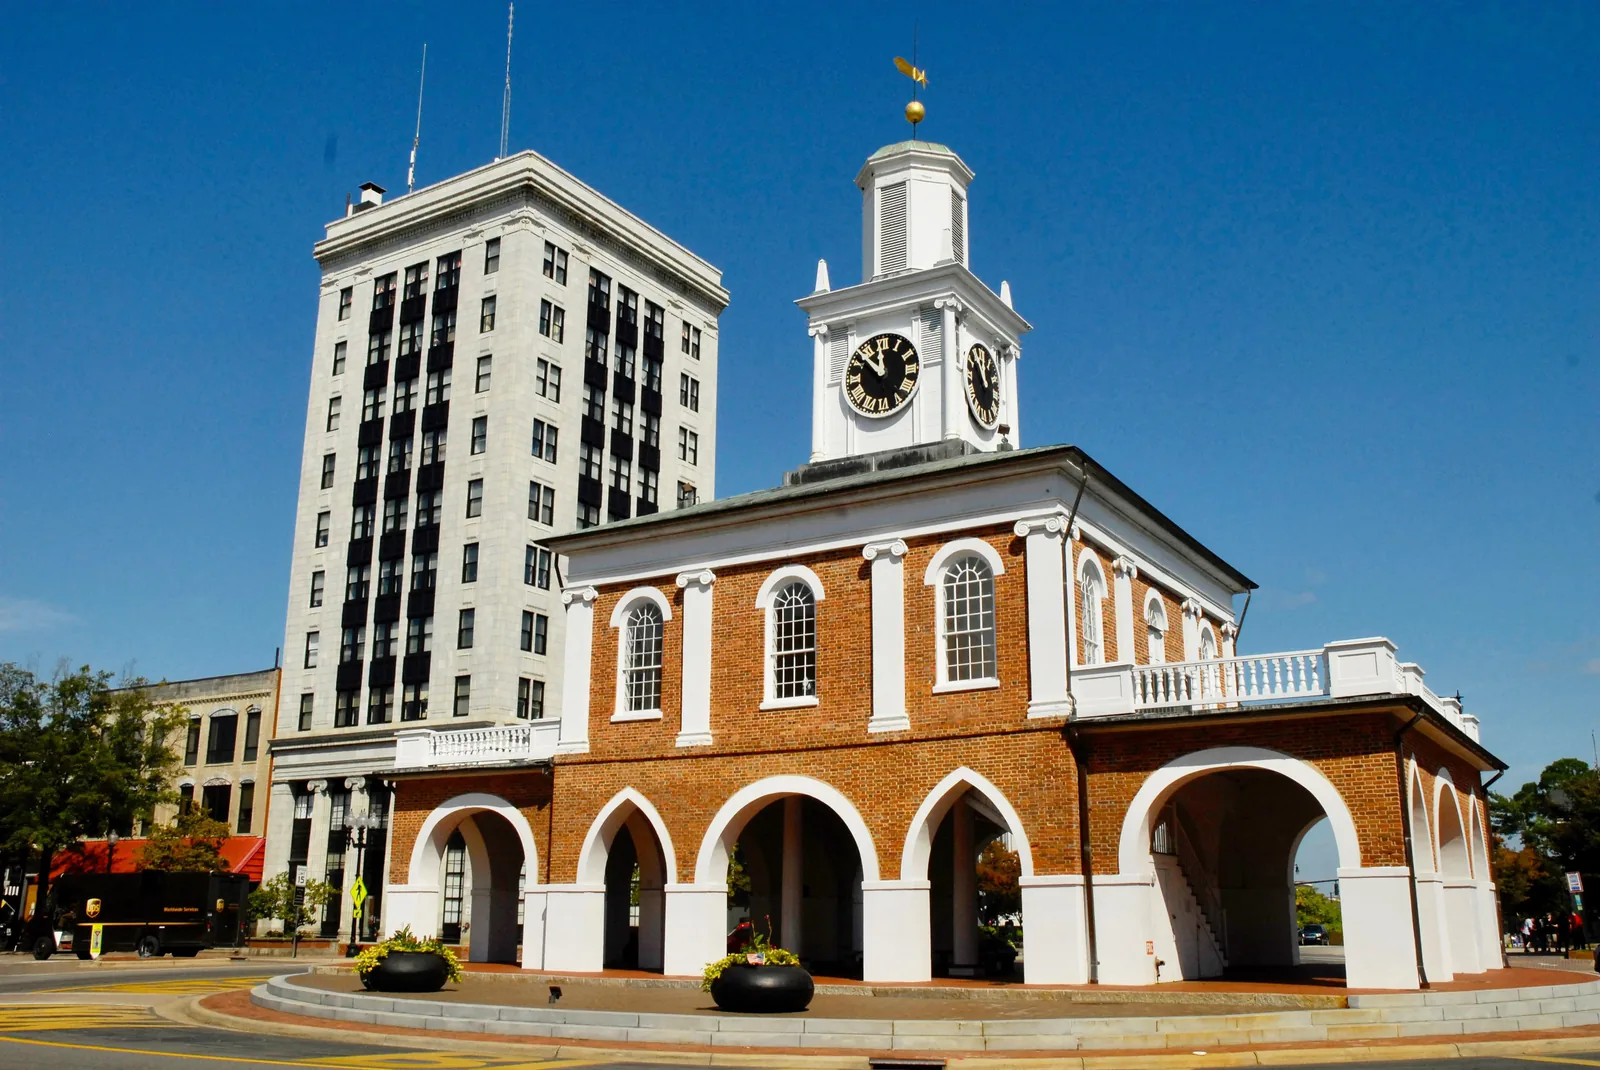
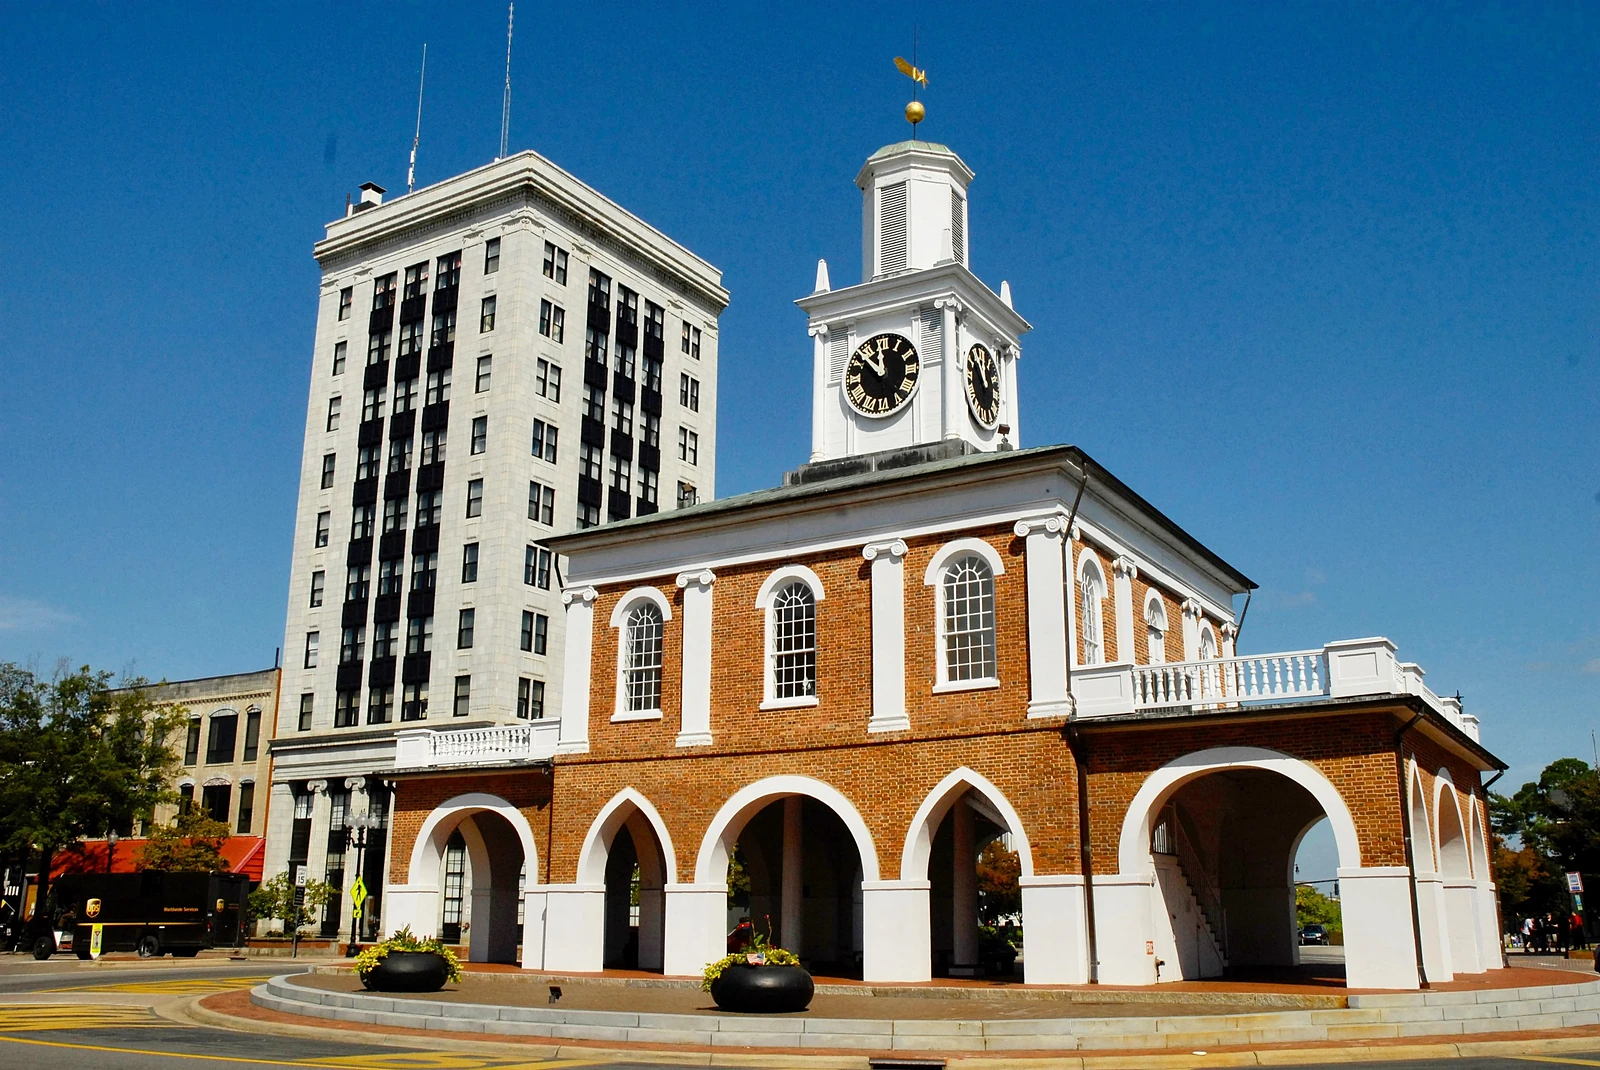
Refresh hero, Jenn portrait, and owner payday section
- Hero: remove green grade and grain, neutral text-side shading,
  sharper re-export with a new 3200w size
- New Jenn Tapia photo: centered 4:5 portrait crops and round avatar,
  shown in a rectangle with an offset brass frame
- Replace the bare "15TH" with an "Owner payday" card on home and owners

diff --git a/css/styles.css b/css/styles.css
@@ -287,30 +287,24 @@ body.nav-open .site-header .brand { color: var(--on-dark); position: relative; z
   overflow: hidden;
 }
 .hero-media { position: absolute; inset: 0; z-index: -2; overflow: hidden; }
-/* Grade the daylight photo toward the brand: cool the sky into deep green, keep the brick warm. */
-.hero-media::after {
-  content: ""; position: absolute; inset: 0;
-  background: linear-gradient(180deg, var(--forest-800) 0%, rgba(16, 48, 42, .55) 45%, rgba(16, 48, 42, 0) 70%);
-  mix-blend-mode: color; opacity: .85;
-}
 .hero-media img {
   width: 100%; height: 108%; object-fit: cover; object-position: 70% 62%;
-  filter: saturate(.78) contrast(1.1) brightness(.95) sepia(.05);
-  transform: scale(1.12); animation: hero-in 2.8s var(--ease) forwards;
-  will-change: transform;
+  /* True color, no grade. */
+  transform: scale(1.08); animation: hero-in 2.4s var(--ease) forwards;
+  backface-visibility: hidden;
 }
 @keyframes hero-in { to { transform: scale(1); } }
 .hero::before {
   content: ""; position: absolute; inset: 0; z-index: -1;
   background:
-    linear-gradient(180deg, rgba(7, 23, 15, .6) 0%, rgba(7, 23, 15, .12) 30%, rgba(7, 23, 15, .2) 62%, rgba(7, 23, 15, .92) 100%),
-    linear-gradient(90deg, rgba(11, 35, 27, .9) 0%, rgba(11, 35, 27, .7) 30%, rgba(11, 35, 27, .15) 58%, rgba(11, 35, 27, 0) 72%),
-    var(--grain);
+    /* Neutral shading only where text sits: header, headline column, and the bottom bar. */
+    linear-gradient(180deg, rgba(0, 0, 0, .45) 0%, rgba(0, 0, 0, 0) 22%, rgba(0, 0, 0, 0) 64%, rgba(0, 0, 0, .7) 100%),
+    linear-gradient(90deg, rgba(0, 0, 0, .78) 0%, rgba(0, 0, 0, .62) 30%, rgba(0, 0, 0, .28) 48%, rgba(0, 0, 0, 0) 62%);
   mix-blend-mode: normal;
 }
 @media (max-width: 860px) {
   .hero-media img { object-position: 58% 40%; }
-  .hero-media::before { content: ""; position: absolute; inset: 0; z-index: 1; background: linear-gradient(180deg, rgba(7, 23, 15, .35), rgba(7, 23, 15, .72) 45%, rgba(7, 23, 15, .8)); }
+  .hero-media::before { content: ""; position: absolute; inset: 0; z-index: 1; background: linear-gradient(180deg, rgba(0, 0, 0, .3), rgba(0, 0, 0, .55) 45%, rgba(0, 0, 0, .7)); }
 }
 .hero-inner { align-self: end; padding-top: 9rem; padding-bottom: clamp(2.5rem, 6vw, 4.5rem); }
 .hero-kicker { display: flex; align-items: center; gap: 1rem; margin-bottom: clamp(1.5rem, 3vw, 2.4rem); }
@@ -389,7 +383,7 @@ body.nav-open .site-header .brand { color: var(--on-dark); position: relative; z
 .manifesto-text .mw.on { opacity: 1; }
 .manifesto-text em { color: var(--forest); }
 .manifesto-sign { display: flex; align-items: center; gap: 1.2rem; margin-top: clamp(2rem, 4vw, 3.2rem); }
-.manifesto-sign img { width: 3.6rem; height: 3.6rem; border-radius: 50%; object-fit: cover; object-position: 50% 18%; }
+.manifesto-sign img { width: 3.6rem; height: 3.6rem; border-radius: 50%; object-fit: cover; }
 .manifesto-sign strong { display: block; font-weight: 500; color: var(--ink); }
 .manifesto-sign span { font-size: .88rem; color: var(--muted); }
 .manifesto-aside { display: grid; align-content: start; gap: 1.4rem; }
@@ -569,8 +563,15 @@ body.nav-open .site-header .brand { color: var(--on-dark); position: relative; z
 /* ---------- Process (sticky) ---------- */
 .process-grid { display: grid; grid-template-columns: minmax(0, 1fr) minmax(0, 1.2fr); gap: clamp(2rem, 7vw, 7rem); }
 .process-sticky { position: sticky; top: 8rem; align-self: start; display: grid; gap: 1.6rem; }
-.process-big { font-family: var(--serif); font-size: clamp(6rem, 4rem + 9vw, 13rem); line-height: .8; color: var(--forest); letter-spacing: -0.04em; }
-.process-big sup { font-size: .22em; letter-spacing: .1em; vertical-align: top; font-family: var(--sans); color: var(--brass); margin-left: .3rem; }
+.payday {
+  display: grid; grid-template-columns: auto 1fr; gap: 1.1rem; align-items: start;
+  padding: 1.4rem 1.5rem; background: var(--bone); border: 1px solid var(--line); border-left: 3px solid var(--brass);
+}
+.payday-ico { width: 2.2rem; height: 2.2rem; color: var(--forest); margin-top: .2rem; }
+.payday-k { font-size: .7rem; letter-spacing: .26em; text-transform: uppercase; font-weight: 500; color: var(--brass); }
+.payday-v { font-family: var(--serif); font-size: clamp(2rem, 1.6rem + 1.4vw, 2.8rem); line-height: 1; color: var(--ink); margin: .35rem 0 .5rem; }
+.payday-v em { color: var(--forest); }
+.payday-note { font-size: .92rem; line-height: 1.5; color: var(--body); max-width: 34ch; }
 .steps { counter-reset: s; }
 .step { position: relative; display: grid; grid-template-columns: 4.5rem 1fr; gap: 1.2rem; padding: 2rem 0 2.4rem; border-top: 1px solid var(--line-strong); }
 .step:last-child { border-bottom: 1px solid var(--line-strong); }
@@ -586,7 +587,7 @@ body.nav-open .site-header .brand { color: var(--on-dark); position: relative; z
 .jenn { background: var(--bone); overflow: hidden; }
 .jenn-grid { display: grid; grid-template-columns: minmax(0, .85fr) minmax(0, 1fr); gap: clamp(2.5rem, 7vw, 7rem); align-items: center; }
 .jenn-portrait { position: relative; max-width: 30rem; }
-.jenn-portrait .arch img { object-position: 50% 20%; }
+.jenn-portrait .arch img { object-position: 50% 50%; }
 .jenn-portrait figcaption { margin-top: 2rem; display: flex; justify-content: space-between; gap: 1rem; font-size: .8rem; letter-spacing: .2em; text-transform: uppercase; color: var(--muted); }
 .jenn-quote { font-family: var(--serif); font-size: clamp(1.8rem, 1.2rem + 2.2vw, 3.2rem); line-height: 1.12; color: var(--ink); margin: 1.5rem 0 1.8rem; text-wrap: balance; }
 .jenn-quote::before { content: "\201C"; display: block; font-size: 2.2em; line-height: .6; color: var(--brass); height: .45em; }
@@ -811,7 +812,7 @@ body.nav-open .site-header .brand { color: var(--on-dark); position: relative; z
 .aside-card .dot.leased { color: var(--muted); }
 .aside-card h3 { font-family: var(--serif); font-size: 1.9rem; line-height: 1.05; }
 .aside-agent { display: flex; align-items: center; gap: 1rem; padding-top: 1.2rem; border-top: 1px solid var(--line); }
-.aside-agent img { width: 3.4rem; height: 3.4rem; border-radius: 50%; object-fit: cover; object-position: 50% 18%; }
+.aside-agent img { width: 3.4rem; height: 3.4rem; border-radius: 50%; object-fit: cover; }
 .aside-agent strong { display: block; font-weight: 500; color: var(--ink); }
 .aside-agent a { font-size: .9rem; color: var(--forest); }
 .verified { display: flex; gap: .8rem; align-items: start; font-size: .85rem; line-height: 1.5; padding: 1rem; background: var(--paper); border: 1px solid var(--line); }
@@ -1217,3 +1218,22 @@ body.nav-open .site-header .brand { color: var(--on-dark); position: relative; z
 /* Never on touch devices or small screens — there's nothing to scan with. */
 @media (hover: none), (pointer: coarse), (max-width: 899px) { .qr { display: none; } }
 @media print { .qr { display: none; } }
+
+/* Outlined hero button stays legible over the bright facade. */
+.hero .btn--outline-light { background: rgba(0, 0, 0, .38); -webkit-backdrop-filter: blur(8px); backdrop-filter: blur(8px); border-color: rgba(255, 255, 255, .55); }
+.hero .btn--outline-light:hover { background: transparent; }
+.hero h1, .hero .lede { text-shadow: 0 2px 24px rgba(0, 0, 0, .35); }
+
+/* Portraits: clean rectangle with an offset brass frame (arches are reserved for places). */
+.portrait { position: relative; isolation: isolate; max-width: 30rem; margin-right: 18px; margin-bottom: 18px; }
+.portrait::before {
+  content: ""; position: absolute; inset: 18px -18px -18px 18px; z-index: -1;
+  border: 1px solid var(--brass); pointer-events: none;
+}
+.portrait-img { aspect-ratio: 4 / 5; overflow: hidden; background: var(--stone); box-shadow: 0 30px 60px -30px rgba(11, 35, 27, .45); }
+.portrait-img img { width: 100%; height: 100%; object-fit: cover; object-position: 50% 50%; }
+.js .portrait-img.reveal-mask.is-in { clip-path: inset(0); }
+@media (max-width: 700px) {
+  .portrait { margin-right: 12px; margin-bottom: 12px; }
+  .portrait::before { inset: 12px -12px -12px 12px; }
+}

diff --git a/index.html b/index.html
@@ -20,7 +20,7 @@
   <link rel="preconnect" href="https://fonts.googleapis.com" />
   <link rel="preconnect" href="https://fonts.gstatic.com" crossorigin />
   <link href="https://fonts.googleapis.com/css2?family=Instrument+Serif:ital@0;1&family=Jost:wght@300;400;500&display=swap" rel="stylesheet" />
-  <link rel="preload" as="image" href="assets/img/market-house-1600.webp" imagesrcset="assets/img/market-house-960.webp 960w, assets/img/market-house-1600.webp 1600w, assets/img/market-house-2560.webp 2560w" imagesizes="100vw" fetchpriority="high" />
+  <link rel="preload" as="image" href="assets/img/market-house-1600.webp" imagesrcset="assets/img/market-house-960.webp 960w, assets/img/market-house-1600.webp 1600w, assets/img/market-house-2560.webp 2560w, assets/img/market-house-3200.webp 3200w" imagesizes="100vw" fetchpriority="high" />
   <link rel="stylesheet" href="css/styles.css" />
   <script>document.documentElement.classList.add('js')</script>
   <script type="application/ld+json">
@@ -94,7 +94,7 @@
     <!-- Hero -->
     <section class="hero" aria-labelledby="hero-title">
       <div class="hero-media" aria-hidden="true">
-        <img src="assets/img/market-house-1600.webp" srcset="assets/img/market-house-960.webp 960w, assets/img/market-house-1600.webp 1600w, assets/img/market-house-2560.webp 2560w" sizes="100vw" width="2560" height="1712" alt="" data-parallax="0.1" fetchpriority="high" decoding="async" />
+        <img src="assets/img/market-house-1600.webp" srcset="assets/img/market-house-960.webp 960w, assets/img/market-house-1600.webp 1600w, assets/img/market-house-2560.webp 2560w, assets/img/market-house-3200.webp 3200w" sizes="100vw" width="2560" height="1712" alt="" data-parallax="0.1" fetchpriority="high" decoding="async" />
       </div>
       <div class="container hero-inner">
         <div class="hero-kicker">
@@ -145,7 +145,7 @@
         <div>
           <p class="manifesto-text" data-scrub>Our mission is simple: to care for each home we manage <em>as if it were our own</em>&mdash;and to be the most reliable property management company in Fayetteville, with the best reputation for communication and diligence.</p>
           <div class="manifesto-sign reveal">
-            <img src="assets/img/jennifer-tapia.webp" alt="" width="58" height="58" loading="lazy" />
+            <img src="assets/img/jenn-tapia-avatar.webp" alt="" width="58" height="58" loading="lazy" />
             <div><strong>Jennifer Tapia</strong><span>Owner &amp; Property Manager</span></div>
           </div>
         </div>
@@ -263,7 +263,14 @@
         <div class="process-sticky">
           <p class="eyebrow">The owner journey</p>
           <h2 class="title" id="process-title" data-split>Seven steps to <em>getting paid.</em></h2>
-          <p class="process-big" aria-hidden="true">15<sup>TH</sup></p>
+          <div class="payday">
+            <svg class="payday-ico" viewBox="0 0 24 24" fill="none" stroke="currentColor" stroke-width="1.4" aria-hidden="true"><rect x="3.5" y="5" width="17" height="15" rx="1.5"/><path d="M3.5 9.5h17M8 3v4M16 3v4"/><path d="m9 14.5 2 2 4-4"/></svg>
+            <div>
+              <p class="payday-k">Owner payday</p>
+              <p class="payday-v">Paid by the <em>15th</em></p>
+              <p class="payday-note">Every month: rent collected, statement delivered, funds deposited to your bank account.</p>
+            </div>
+          </div>
           <p>From first conversation to rent in your account&mdash;a disciplined process with no surprises.</p>
           <div><a class="btn" href="contact.html?about=a%20management%20consultation">Book a consultation <svg class="arrow" viewBox="0 0 24 24" fill="none" stroke="currentColor" stroke-width="1.4" aria-hidden="true"><path d="M3 12h17M14 6l6 6-6 6"/></svg></a></div>
         </div>
@@ -301,7 +308,7 @@
     <section class="section jenn" aria-labelledby="jenn-title">
       <div class="container jenn-grid">
         <figure class="jenn-portrait reveal" style="margin:0">
-          <div class="arch arch--frame reveal-mask"><img src="assets/img/jennifer-tapia.webp" alt="Jennifer Tapia, owner of Verdant Properties" loading="lazy" width="543" height="814" /></div>
+          <div class="portrait"><div class="portrait-img reveal-mask"><img src="assets/img/jenn-tapia-800.webp" srcset="assets/img/jenn-tapia-800.webp 800w, assets/img/jenn-tapia-1200.webp 1200w" sizes="(max-width: 860px) 90vw, 480px" width="1200" height="1500" alt="Jennifer Tapia, owner of Verdant Properties" loading="lazy" /></div></div>
           <figcaption><span>Jennifer Tapia</span><span>Owner / Operator</span></figcaption>
         </figure>
         <div>

diff --git a/js/property.js b/js/property.js
@@ -131,7 +131,7 @@
           '<a class="btn btn--block" href="' + SCHEDULER + '" target="_blank" rel="noopener">Schedule a showing ' + V.icon.arrow + '</a>' +
           '<a class="btn btn--ghost btn--block" href="' + inquireHref + '">Ask a question</a>' +
           '<div class="verified">' + V.icon.shield + '<span><strong style="color:var(--ink);font-weight:500">Verified listing.</strong> Managed by Verdant Properties, NC Firm #C40094. We will never ask you to wire money or pay before touring.</span></div>' +
-          '<div class="aside-agent"><img src="assets/img/jennifer-tapia.webp" alt="" loading="lazy"><div><strong>Jennifer Tapia</strong><a href="tel:+19109226519">(910) 922-6519</a></div></div>' +
+          '<div class="aside-agent"><img src="assets/img/jenn-tapia-avatar.webp" alt="" width="54" height="54" loading="lazy"><div><strong>Jennifer Tapia</strong><a href="tel:+19109226519">(910) 922-6519</a></div></div>' +
         '</aside>' +
       '</div></section>' +
       '<section class="section bg-bone" data-similar hidden aria-labelledby="similar-title"><div class="container">' +

diff --git a/owners.html b/owners.html
@@ -129,7 +129,14 @@
         <div class="process-sticky">
           <p class="eyebrow">The owner journey</p>
           <h2 class="title" id="process-title" data-split>Seven steps to <em>getting paid.</em></h2>
-          <p class="process-big" aria-hidden="true">15<sup>TH</sup></p>
+          <div class="payday">
+            <svg class="payday-ico" viewBox="0 0 24 24" fill="none" stroke="currentColor" stroke-width="1.4" aria-hidden="true"><rect x="3.5" y="5" width="17" height="15" rx="1.5"/><path d="M3.5 9.5h17M8 3v4M16 3v4"/><path d="m9 14.5 2 2 4-4"/></svg>
+            <div>
+              <p class="payday-k">Owner payday</p>
+              <p class="payday-v">Paid by the <em>15th</em></p>
+              <p class="payday-note">Every month: rent collected, statement delivered, funds deposited to your bank account.</p>
+            </div>
+          </div>
           <p>From first conversation to rent in your account.</p>
         </div>
         <ol class="steps" role="list">

diff --git a/about.html b/about.html
@@ -86,7 +86,7 @@
     <section class="section" style="padding-top:0" aria-labelledby="story-title">
       <div class="container split">
         <figure class="reveal" style="margin:0">
-          <div class="arch arch--frame reveal-mask"><img src="assets/img/jennifer-tapia.webp" alt="Portrait of Jennifer Tapia" width="543" height="814" style="object-position:50% 20%" /></div>
+          <div class="portrait"><div class="portrait-img reveal-mask"><img src="assets/img/jenn-tapia-800.webp" srcset="assets/img/jenn-tapia-800.webp 800w, assets/img/jenn-tapia-1200.webp 1200w" sizes="(max-width: 860px) 90vw, 480px" width="1200" height="1500" alt="Portrait of Jennifer Tapia" /></div></div>
         </figure>
         <div>
           <p class="eyebrow reveal">Jennifer Tapia &middot; Owner / Operator</p>

diff --git a/contact.html b/contact.html
@@ -121,7 +121,7 @@
             <div class="contact-item"><span class="k">Based in</span><p class="v">Fayetteville, North Carolina</p></div>
           </div>
           <div class="aside-agent" style="border:0;margin-top:1.5rem">
-            <img src="assets/img/jennifer-tapia.webp" alt="" width="54" height="54" loading="lazy" />
+            <img src="assets/img/jenn-tapia-avatar.webp" alt="" width="54" height="54" loading="lazy" />
             <div><strong>Jennifer Tapia</strong><span style="font-size:.9rem;color:var(--muted)">Owner &amp; Property Manager</span></div>
           </div>
         </aside>
